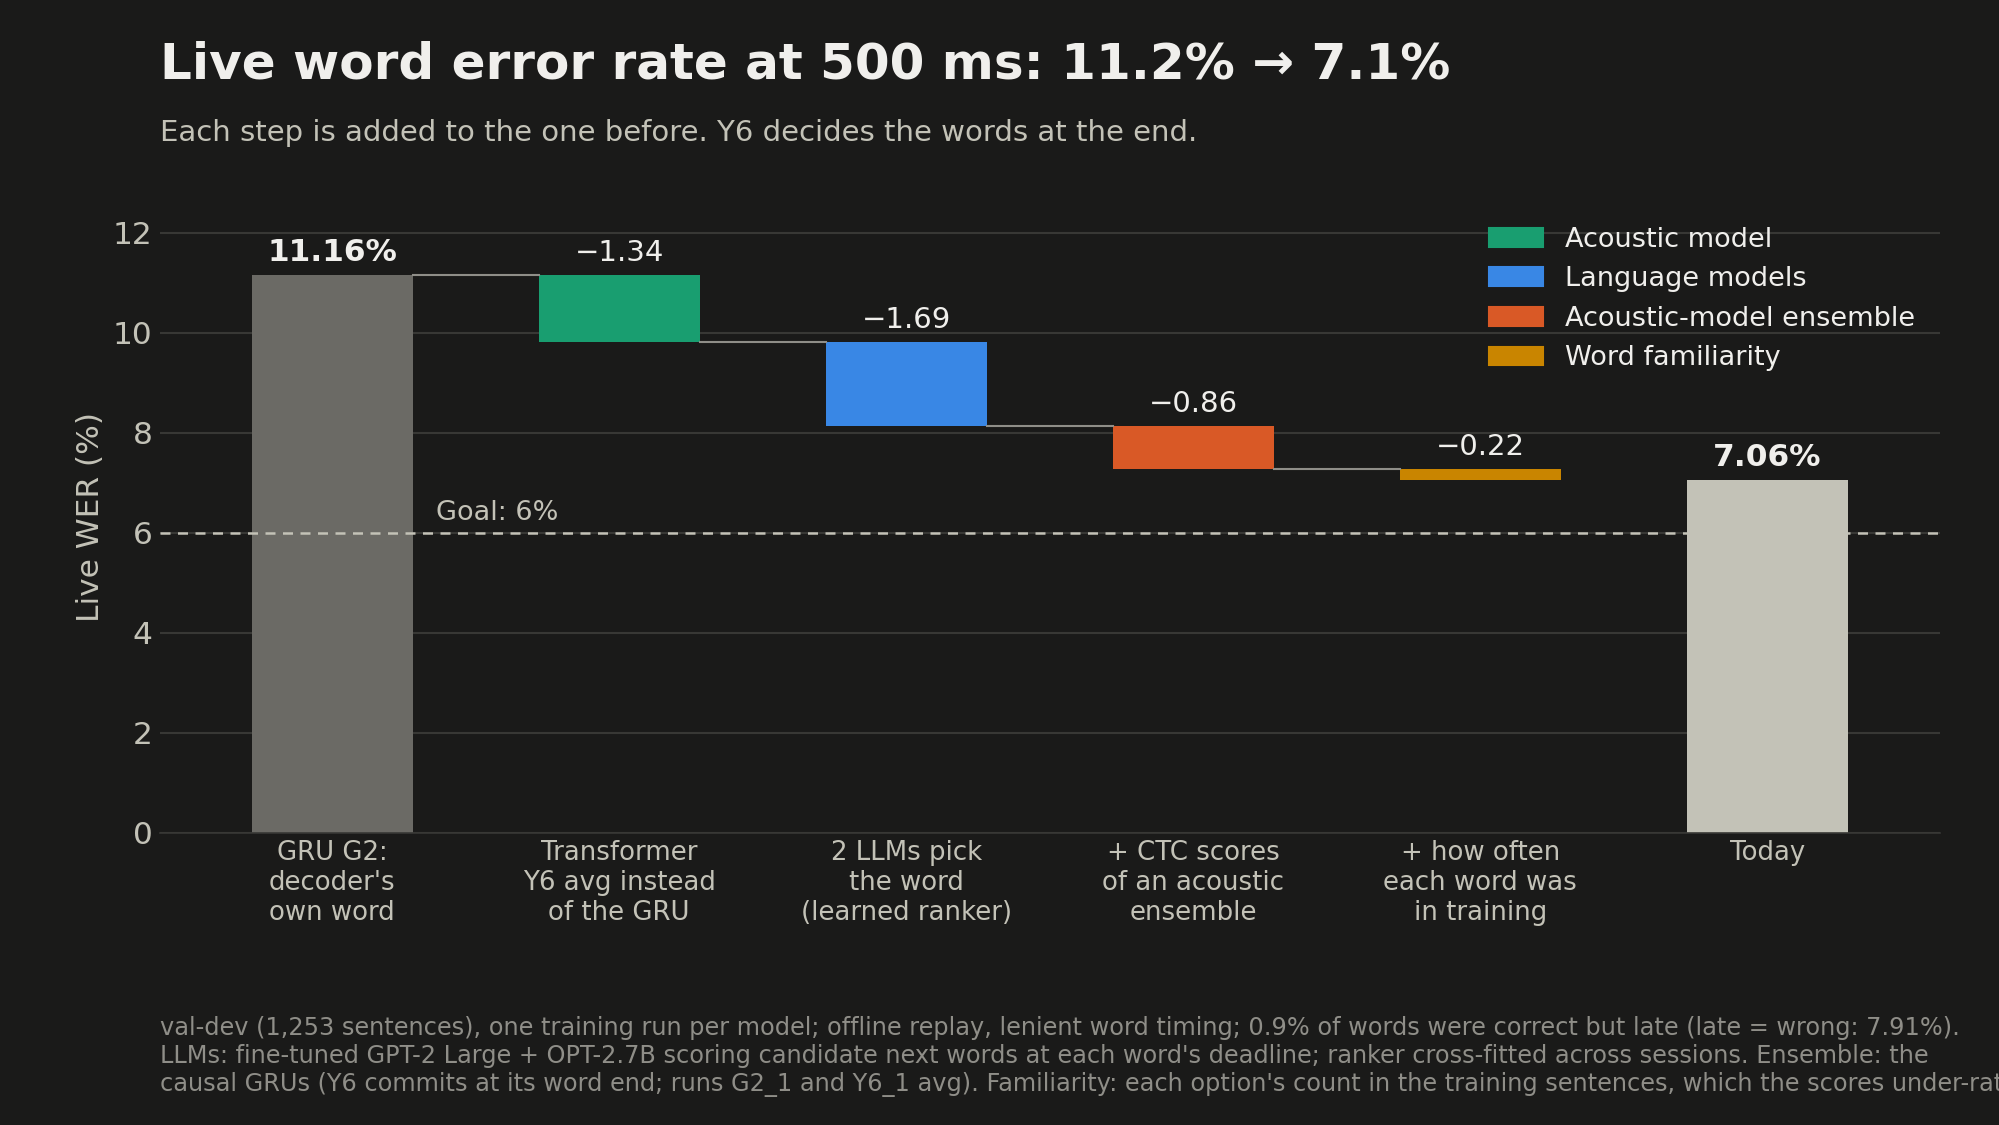
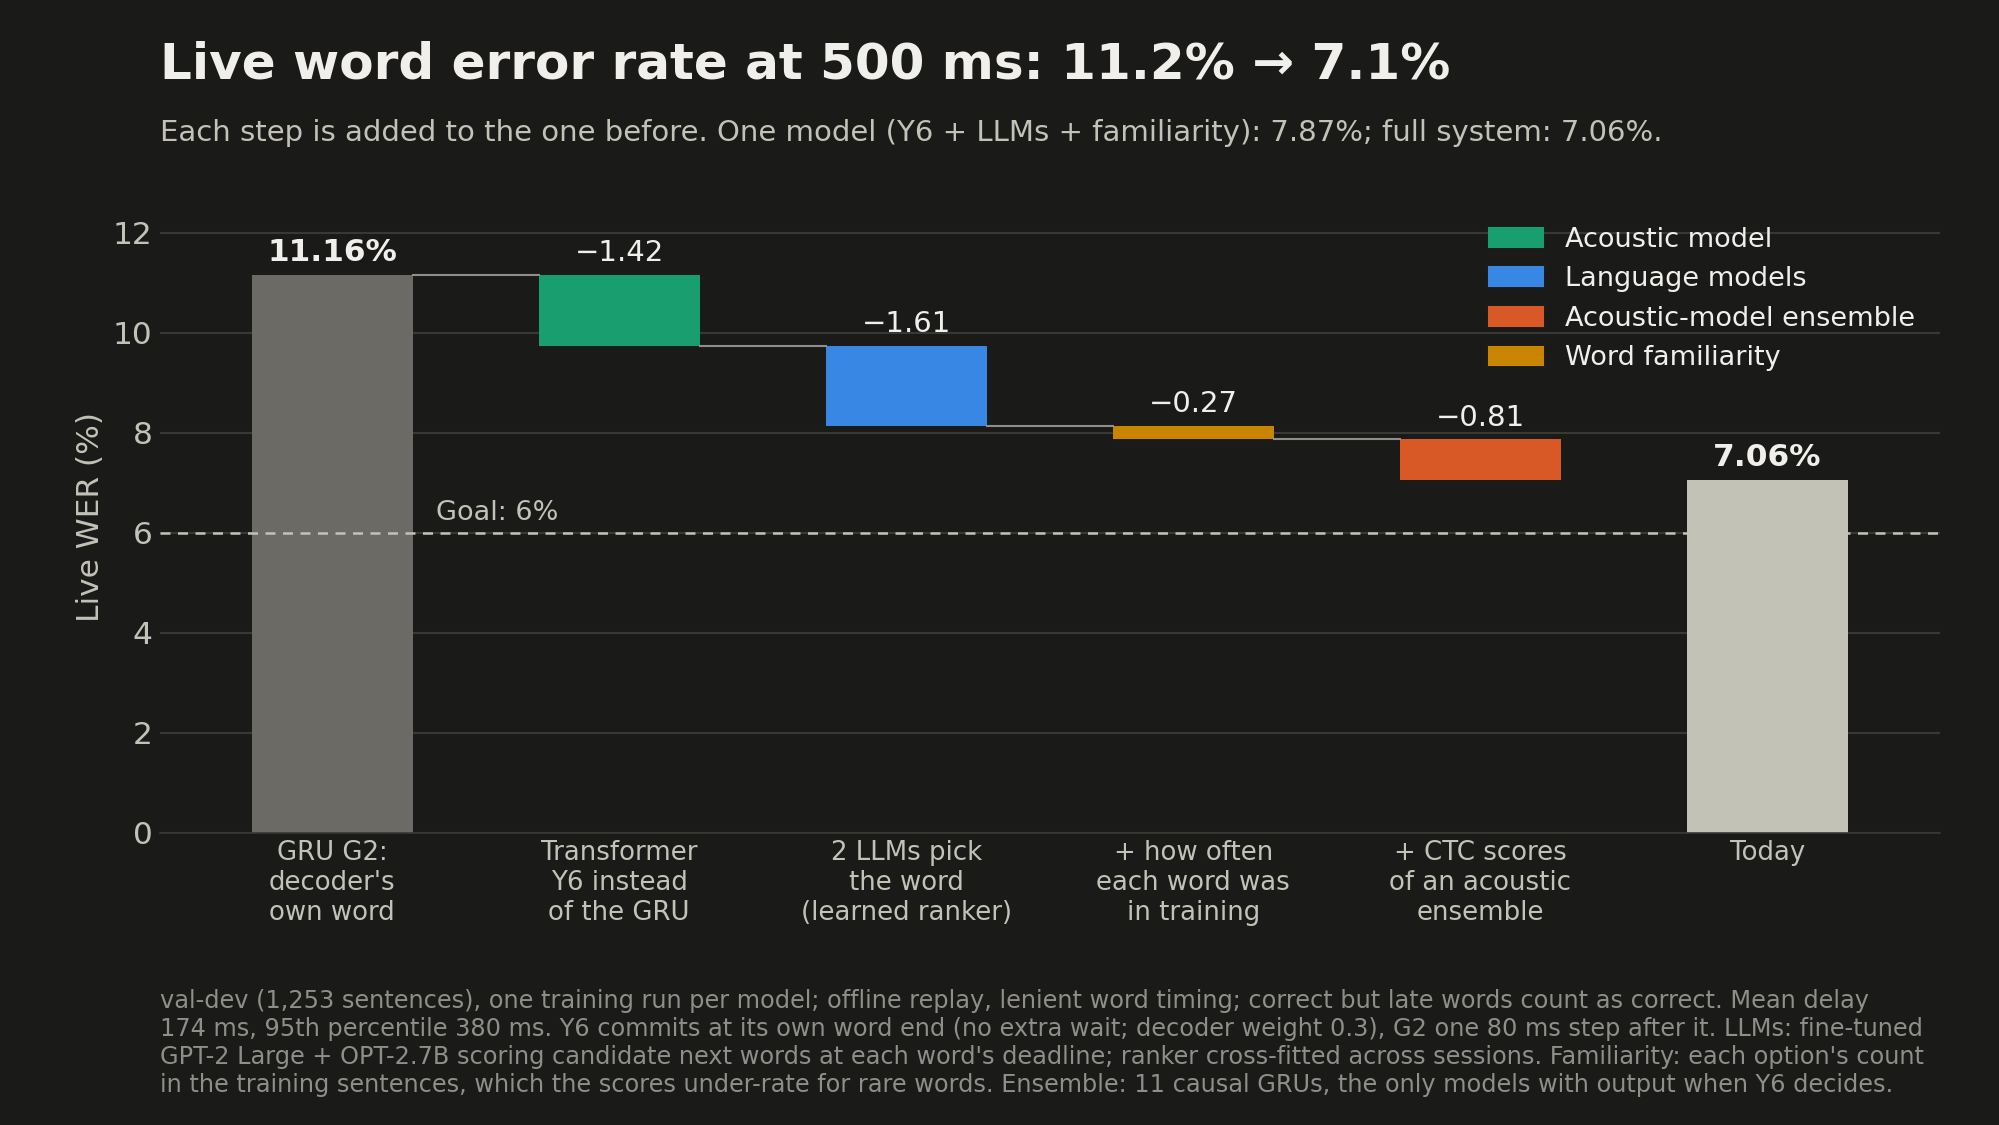
Report each budget as one model and full system with mean delay; sentence end 4.28% with the CTC ensemble; register fold models 2 and 3 (Y6sf2_1, Y6sf3_1)

diff --git a/README.md b/README.md
@@ -9,35 +9,39 @@ unchanged.
 shown within 200 ms, 500 ms or 1.5 s of the moment the participant finished attempting it. Whole-sentence
 (bidirectional) acoustic models are excluded, and rescoring after the sentence ends does not count.
 
-## Status (2026-11-18)
+## Status (2026-11-19)
 
 <picture>
   <source media="(prefers-color-scheme: dark)" srcset="docs/images/dark/02_best_possible.png">
-  <img src="docs/images/light/02_best_possible.png" alt="Bar chart of the best word error rate at each time limit. Live words with one decoder: 8.64% at 200 ms, 7.06% at 500 ms, 6.51% at 1.5 s; with a second decoder 6.77% and 6.48%. After the sentence: 5.47%. Goal: 6%.">
+  <img src="docs/images/light/02_best_possible.png" alt="Bar chart of the best word error rate at each time limit. Live words: 8.64% at 200 ms (mean delay 69 ms), 7.06% at 500 ms (174 ms), 6.51% at 1.5 s (966 ms); with a second decoder 6.77% and 6.48%. After the sentence: 4.28%, against 2.24% if the best sentence in the decoder's list were always picked. Goal: 6%.">
 </picture>
 
-| Time limit after the word ends | Live word error rate | Late words counted as errors | Deciding model | CTC ensemble |
+| Time limit after the word ends | One model | Full system | Mean delay | Deciding model |
 |---|---|---|---|---|
-| 200 ms | 8.64% | 10.77% | GRU D1_1 (causal) | 11 causal GRUs |
-| 500 ms | 7.06% | 7.91% | Transformer Y6_1 (averaged weights) | 11 causal GRUs, Y6_1 |
-| 500 ms, with a second decoder | 6.77% | 7.76% | Y6_1, with GRU D1_2's candidates voting | the same |
-| 1.5 s | 6.51% | 6.91% | Transformer Y6_1 (averaged weights) | 22 GRUs, 3 Transformers, Y6_1 |
-| 1.5 s, with a second decoder | 6.48% | 6.74% | Y6_1, with GRU G11's candidates voting | the same |
-| After the sentence (not the target) | 5.47% | - | Transformer Y6_1 | none; GPT-2 Large rescores the decoder's 100 best sentences |
+| 200 ms | 9.27% | 8.64% | 69 ms | GRU D1 (causal) |
+| 500 ms | 7.87% | 7.06% | 174 ms | Transformer Y6 |
+| 1.5 s | 7.74% | 6.51% | 966 ms | Transformer Y6 |
+| After the sentence (not the target) | 5.06% | 4.28% | - | Transformer Y6, its 100 best sentences rescored |
 
-Each live result comes from a full system, not one model. The deciding acoustic model and its 4-gram decoder
-propose candidates for the next word, and at each word's deadline a learned ranker picks one, using two language
-models (fine-tuned GPT-2 Large and OPT-2.7B), the CTC scores of an ensemble of acoustic models, and how often each
+A live result passes its time limit when 95% of words are final within it; a correct word that arrives late still
+counts as correct, and the mean delay shows the typical wait. The deciding acoustic model and its 4-gram decoder
+propose candidates for the next word, and at each word's deadline a learned ranker picks one. "One model" gives the
+ranker the deciding model's own scores, two language models (fine-tuned GPT-2 Large and OPT-2.7B) and how often each
 candidate word occurs in the training sentences (the language models and the decoder under-rate rare words, which
-hold two thirds of the errors). D1_1 is a causal 1,344-unit GRU. Y6_1 is a 9.7M-parameter Transformer trained with the
-LightBeam recipe (Feghhi et al. 2026) with 80 ms of look-ahead; a second training seed (Y6_2) gives the same
-sentence-end WER (6.95 vs 6.97). In the second-decoder rows another decoder runs alongside and its candidates vote;
-its language-model time is charged, but the two decoders have not yet been run side by side. Every training run and
-its ID is listed in [`harness/registry/MODELS.md`](harness/registry/MODELS.md): a recipe ID such as `Y6` names a
-configuration, a run ID such as `Y6_1` one training of it, and "avg" its averaged weights.
+hold two thirds of the errors). The "full system" adds the CTC scores of an ensemble of acoustic models: 11 causal
+GRUs at 200 ms and 500 ms, and at 1.5 s 22 GRUs, 3 Transformers and Y6 with three extra CTC inputs. With a second
+decoder's candidates voting, 500 ms and 1.5 s reach 6.77% and 6.48% (its language-model time charged; the two
+decoders have not yet been run side by side). After the sentence, a learned rescorer combines GPT-2 Large with the
+same inputs over Y6's 100 best sentences (GPT-2 Large alone: 5.47%). The exact sentence is in that list for 89% of
+sentences, and always picking the closest one would give 2.24%, so better choosing has room left.
 
-No Transformer has been run through the ranker at 200 ms yet: Y6 marks word ends late (95th percentile 360 ms after
-the word). Y13, the Y6 recipe trained with shorter time masks, marks them within 120 ms but loses about a point of WER.
+D1 is a causal 1,344-unit GRU. Y6 is a 9.7M-parameter Transformer trained with the LightBeam recipe (Feghhi et al.
+2026) with 80 ms of look-ahead. Each result comes from one training run of the recipe named; every run is listed in
+[`harness/registry/MODELS.md`](harness/registry/MODELS.md).
+
+No Transformer passes 200 ms yet. Y6 marks word ends late (95th percentile 360 ms after the word). Y13, the Y6 recipe
+trained with shorter time masks, marks them early: its full system reaches 7.67% at 200 ms, but only 94.9% of its
+words are final within 200 ms, just short of the 95% rule, so D1 decides the 200 ms result.
 
 These are on the project's validation partition of the public B2T '25 data ("val-dev": 1,253 trials, 8,277 words,
 35 sessions, one participant). Read them as exploratory:
@@ -56,14 +60,14 @@ A second track on the Makin lab's ECoG dataset is intended; access and integrati
 
 <picture>
   <source media="(prefers-color-scheme: dark)" srcset="docs/images/dark/01_live_wer_waterfall_500ms.png">
-  <img src="docs/images/light/01_live_wer_waterfall_500ms.png" alt="Waterfall chart of live word error rate at 500 ms: GRU G2's own words 11.16%; Transformer Y6 instead of the GRU -1.34; two language models choosing the word -1.69; CTC scores of an acoustic-model ensemble -0.86; word familiarity -0.22; result 7.06%.">
+  <img src="docs/images/light/01_live_wer_waterfall_500ms.png" alt="Waterfall chart of live word error rate at 500 ms: GRU G2's own words 11.16%; Transformer Y6 instead of the GRU -1.42; two language models choosing the word -1.61; word familiarity -0.27 (one model: 7.87%); CTC scores of an acoustic-model ensemble -0.81; result 7.06%.">
 </picture>
 
 ### GRU or Transformer, one acoustic model each
 
 <picture>
   <source media="(prefers-color-scheme: dark)" srcset="docs/images/dark/03_gru_vs_transformer.png">
-  <img src="docs/images/light/03_gru_vs_transformer.png" alt="Bar chart of one GRU against one Transformer with the same language models: 500 ms 8.88% vs 8.13%, 1.5 s 8.66% vs 8.00%, sentence end 6.10% vs 5.47%, no time limit 5.76% vs 5.47%; at 200 ms only the GRU, 9.53%.">
+  <img src="docs/images/light/03_gru_vs_transformer.png" alt="Bar chart of one GRU against one Transformer, each with the same language models and word familiarity: 500 ms 8.53% vs 7.87%, 1.5 s 8.36% vs 7.74%, sentence end 6.10% vs 5.47%, no time limit 5.76% vs 5.47%; at 200 ms only the GRU, 9.27%.">
 </picture>
 
 ## What this repository adds

diff --git a/harness/registry/MODELS.md b/harness/registry/MODELS.md
@@ -150,7 +150,6 @@ the old IDs.
 | A8 | A7_2 | D5 | D1_4 | Y7 | Y7_1 |
 | A9 | A7_3 | G2 | G2_1 | Y9 | Y7_2 |
 | C1 | C1_1 | G13 | G2_2 | Y14 | Y6sf0_1 |
-| Y6sf1_1 | `tfm384x5_lb_p20000_f80_sm80_noday_v2_sf1_63k_s10` | final, avg, bestval | - | 2026-11-18 | Out-of-fold model 1 of 5 on the Y6 recipe (training sentences of fold 1 held out, 6,436 of 8,072 trials kept). Full-val PER at the final batch 10.05 (training log; Y6_1 8.89). |
 | C2 | C1_2 | G14 | G2_3 | | |
 
 Retired recipe numbers: A6, A8, A9, C2, D2, D4, D5, G13, G14, G15, Y9, Y10, Y14.
@@ -334,6 +333,9 @@ One row per training run, grouped by recipe. "Weights" lists what is registered 
 | Y6_1 | `tfm384x5_lb_p20000_f80_sm80_noday_v2_63k_s10` | final, avg, bestval | - | 2026-11-11 | Corrected LightBeam recipe (v2) with their centred smoothing, no attention look-ahead. Reproduction control. |
 | Y6_2 | `tfm384x5_lb_p20000_f80_sm80_noday_v2_63k_s11` | final, avg, bestval | - | 2026-11-17 | Second run of Y6 (seed 11, data seed 2). Best WER 6.95 / 6.95 at scale 0.3 (Y6_1 7.27 / 6.97). |
 | Y6sf0_1 | `tfm384x5_lb_p20000_f80_sm80_noday_v2_sf0_63k_s10` | final, avg, bestval | - | 2026-11-18 | Out-of-fold model 0 of 5 on the Y6 recipe (training sentences of fold 0 held out, 6,469 of 8,072 trials kept), for the selector's held-out decodes. Full-val PER at the final batch 10.07 (training log; Y6_1 8.89). |
+| Y6sf1_1 | `tfm384x5_lb_p20000_f80_sm80_noday_v2_sf1_63k_s10` | final, avg, bestval | - | 2026-11-18 | Out-of-fold model 1 of 5 on the Y6 recipe (training sentences of fold 1 held out, 6,436 of 8,072 trials kept). Full-val PER at the final batch 10.05 (training log; Y6_1 8.89). |
+| Y6sf2_1 | `tfm384x5_lb_p20000_f80_sm80_noday_v2_sf2_63k_s10` | final, avg, bestval | - | 2026-11-18 | Out-of-fold model 2 of 5 on the Y6 recipe (training sentences of fold 2 held out, 6,456 of 8,072 trials kept). Full-val PER at the final batch 10.17 (training log; Y6_1 8.89). |
+| Y6sf3_1 | `tfm384x5_lb_p20000_f80_sm80_noday_v2_sf3_63k_s10` | final, avg, bestval | - | 2026-11-18 | Out-of-fold model 3 of 5 on the Y6 recipe (training sentences of fold 3 held out, 6,497 of 8,072 trials kept). Full-val PER at the final batch 10.11 (training log; Y6_1 8.89). Fold 4's first attempt (2026-11-18 23:24) was stopped at batch 22,600 of 63,000 on 2026-11-19 to free the GPU for the presentation runs; it reruns from scratch afterwards. |
 | Y7_1 | `tfm384x5_lb_p20000_f160_noday_v2_63k_s10` | final, avg, bestval | - | 2026-11-11 | Corrected LightBeam recipe (v2), causal smoothing, 160 ms of attention look-ahead. |
 | Y7_2 | `tfm384x5_lb_p20000_f160_noday_v2_63k_s11` | final, avg, bestval | - | 2026-11-16 | Second run of Y7 (seed 11, data seed 2). Best WER 7.66 / 7.58 (Y7_1 7.44 / 7.43). |
 | Y8_1 | `tfm384x5_lb_p20000_f160_noday_v2_crctc_32k_s10` | final, avg, bestval | - | 2026-11-12 | Y7_1 + consistency-regularized CTC (weight 0.2), half the batches. Best WER 8.64 / 8.57 at scale 0.6 / 0.5 (Y7_1 7.44 / 7.43): keep rule not met. |

diff --git a/docs/PLAN.md b/docs/PLAN.md
@@ -1,9 +1,18 @@
-# Streaming neural decoding plan — updated 2026-11-18
+# Streaming neural decoding plan — updated 2026-11-19
 
 **Where things stand:** live-word WER is 8.64 / 7.06 / 6.51% at 200 ms / 500 ms / 1.5 s on val-dev with one decoder,
 against a target of below 6% (`current_knowledge.md` section 0, which also holds every result and the ledger of what
 was tried); with a second decoder's votes 6.77 / 6.48 at 500 ms / 1.5 s. The 500 ms and 1.5 s results come from the Y6_1
-average deciding the words, with word-familiarity features in the ranker. Words seen fewer than five times in the
+average deciding the words, with word-familiarity features in the ranker. After the sentence, a learned rescorer with
+the CTC ensemble and familiarity reaches 4.28% (GPT-2 Large alone 5.47%; best sentence in the list 2.24%). Y13 reaches
+7.67% at 200 ms but has 94.9% of its words within 200 ms, just short of the 95% rule.
+
+**Reporting (2026-11-19, `current_knowledge.md` 1.4):** a budget is met when 95% of words are final within it; correct
+but late words then count as correct; every live number carries its mean delay; per budget, one model and the full
+system; per model at sentence end, one model and the full system. Charts and slides name recipes (Y6), not runs.
+
+**Order of work after the 2026-11-19 presentation runs:** fold model 4 reruns from scratch (its first attempt was
+stopped to free the GPU), then the selector probe (`results/harness/queue/after_presentation_20261119.sh`). Words seen fewer than five times in the
 training sentences are 15% of val-dev words and two thirds of the errors, and no acoustic model has improved on
 never-seen words; the overnight models of 2026-11-17 (Y6_2, Y11-Y13) did not move live WER. The work now is on the language
 side, led by a phoneme-aware word selector (step 1, started 2026-11-18; its fold models are training). The research
